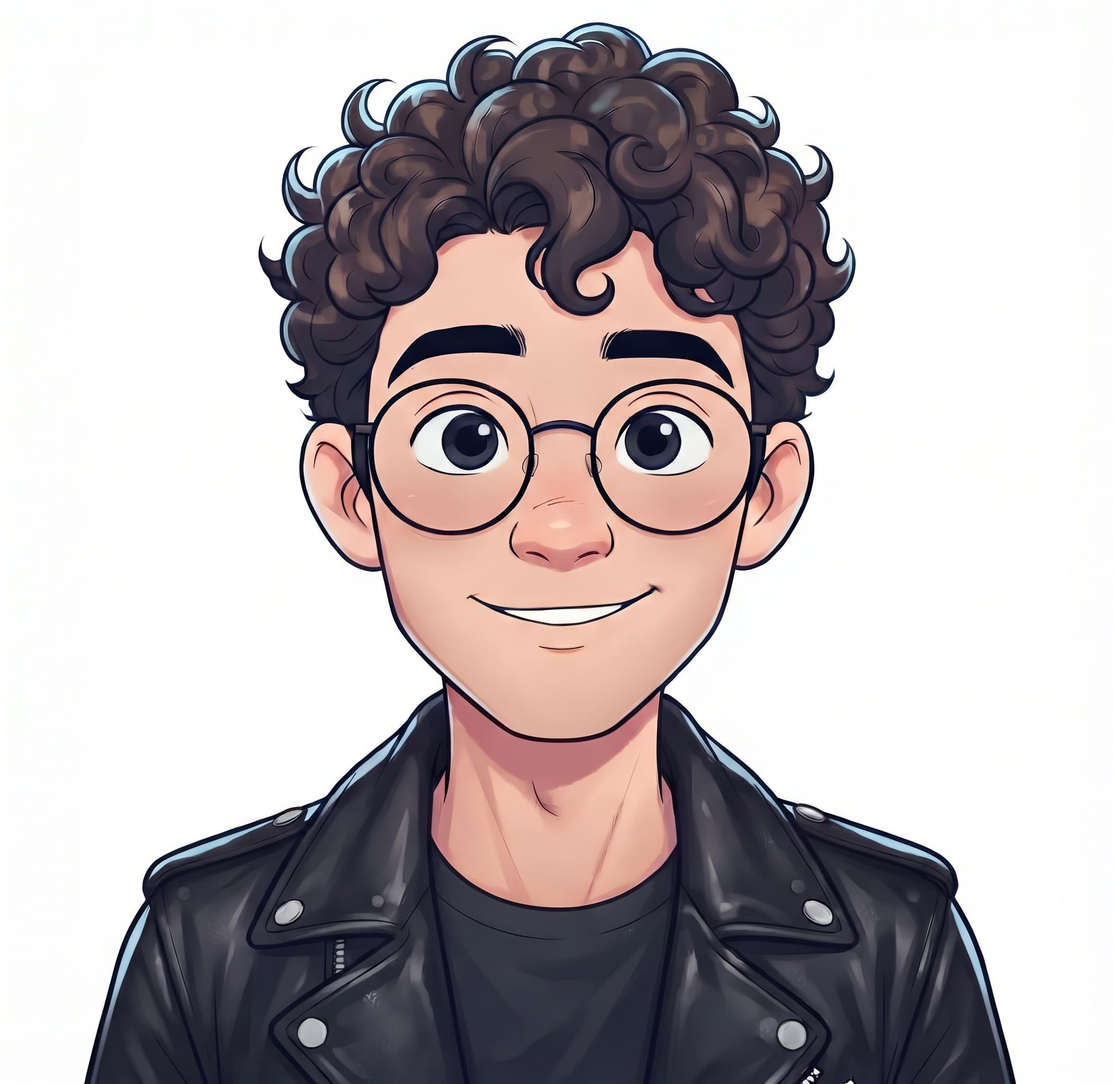
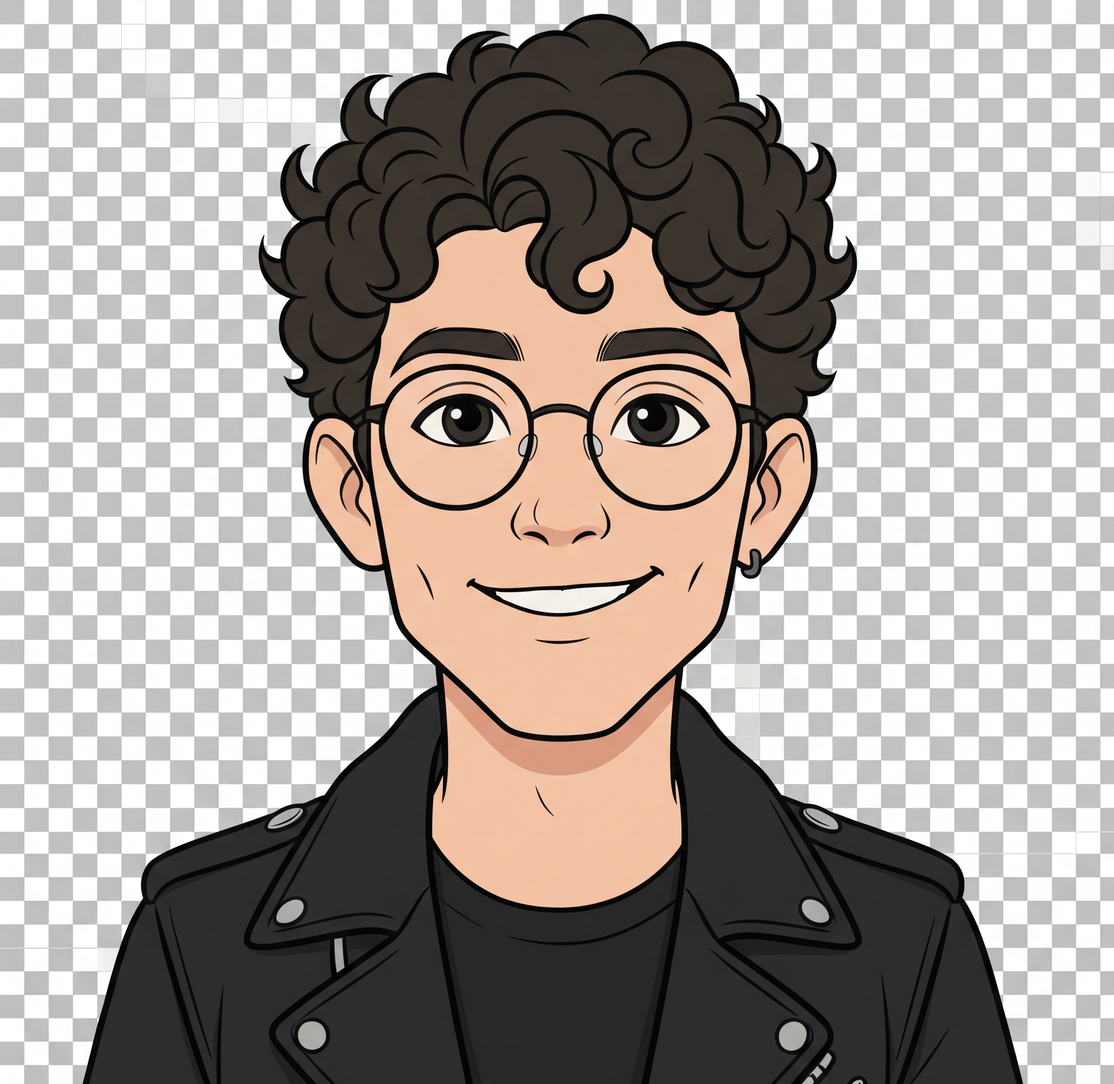
feat: luma-key white background + nueva foto

diff --git a/scripts/banner/generate.py b/scripts/banner/generate.py
@@ -194,6 +194,10 @@ def portrait_points(theme: str, rng: np.random.Generator) -> np.ndarray:
         ys_m, xs_m = np.mgrid[0:340, 0:300]
         ellipse = ((xs_m - 150) / 138) ** 2 + ((ys_m - 168) / 158) ** 2
         alpha = np.clip(1.0 - (ellipse - 1.0) / 0.08, 0.0, 1.0).astype(np.float32)
+        # Luma-key: fondo blanco/near-white (foto sin fondo sobre blanco)
+        # se vuelve transparente para no ditherizarlo.
+        lum_key = np.asarray(ImageOps.grayscale(rgb), dtype=np.float32)
+        alpha *= np.clip((238.0 - lum_key) / 17.0, 0.0, 1.0)
 
     if theme == "dark":
         lum = np.asarray(ImageOps.grayscale(rgb), dtype=np.float32)
